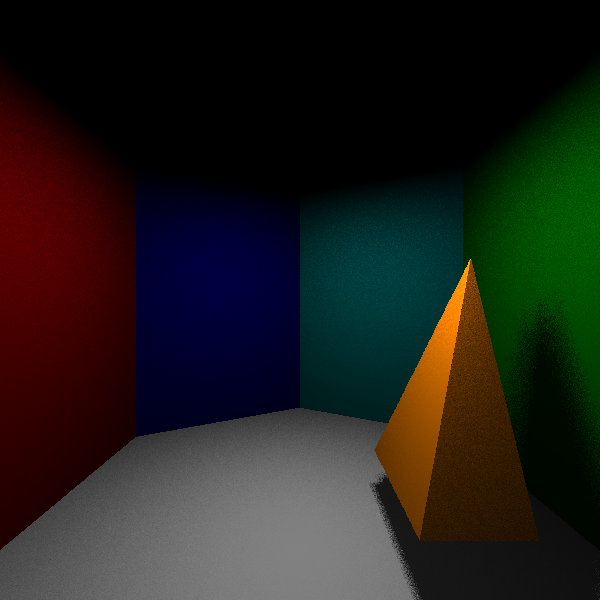
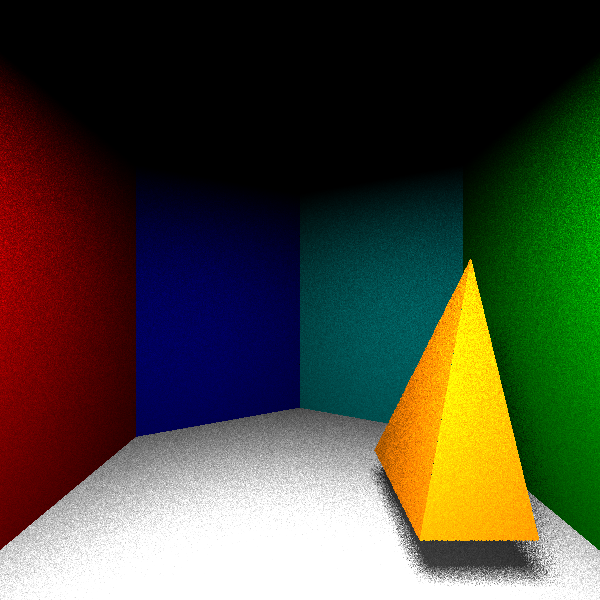
Combined PointInPolygon with Collision
Cleaned and combined the two. Very similiar.

diff --git a/source/ray.cpp b/source/ray.cpp
@@ -34,40 +34,37 @@ ColorDBL Ray::castShadowRay(const Polygon* fromPolygon, const Light& lightsource
         // Create a shadow ray from the hit point to the light source
         Ray castedShadowRay(pointOnPolygon, glm::normalize(di));
 
-        // Check for intersections with objects in the scene
-        if(lightsource.surface_->PointInPolygon(castedShadowRay) != glm::vec3(-100, -100, -100)) { //should always be true
-            
-            for(Polygon* p : allPolygons){ // Checks all polygons in the scene
+        for(Polygon* p : allPolygons){ // Checks all polygons in the scene
 
-                if( p != fromPolygon && p->collision(castedShadowRay,objectPoint)){ // if point hits something
+            if( p != fromPolygon && p->collision(castedShadowRay,objectPoint)){ // if point hits something
                     
-                    float newDistance = glm::length(objectPoint - pointOnPolygon) + EPSILON; // calculates the distance from the polygon to the intersectionpoint
+                float newDistance = glm::length(objectPoint - pointOnPolygon) + EPSILON; // calculates the distance from the polygon to the intersectionpoint
 
-                    if (newDistance < di_distance2) { // Want to keep shortest distance to compare
+                if (newDistance < di_distance2) { // Want to keep shortest distance to compare
 
-                        di_distance2 = newDistance;
-                    }
+                    di_distance2 = newDistance;
                 }
-            }           
-            
-            if (di_distance2 < di_distance) { // If di_distance2 is smaller, means that the collision is not on the lightsource, hence something is in the way
-
-                v_1 = 0.2;
             }
-                
-            // Calculate cosines of the angles between the surface normal and light direction
-            float cosThetaX = glm::dot(glm::normalize(fromPolygon->getNormal()), glm::normalize(di));
-            float cosThetaY = glm::dot(glm::normalize(lightsource.surface_->getNormal()), glm::normalize(di));
-
-            // Calculate the denominator of the Lambertian reflection formula
-            float denominator = pow(abs(di_distance), 2);
-
-            double lamb = std::max(((v_1 * lightsource.area * 3.14f * cosThetaX * (-cosThetaY)) / denominator), 0.0);
-
-            // Update shadow intensity using Lambertian reflection formula
-            shadowIntensity += ColorDBL(lamb, lamb, lamb);
+        }           
             
+        if (di_distance2 < di_distance) { // If di_distance2 is smaller, means that the collision is not on the lightsource, hence something is in the way
+
+            v_1 = 0.2;
         }
+                
+        // Calculate cosines of the angles between the surface normal and light direction
+        float cosThetaX = glm::dot(glm::normalize(fromPolygon->getNormal()), glm::normalize(di));
+        float cosThetaY = glm::dot(glm::normalize(lightsource.surface_->getNormal()), glm::normalize(di));
+
+        // Calculate the denominator of the Lambertian reflection formula
+        float denominator = pow(abs(di_distance), 2);
+
+        double lamb = std::max(((v_1 * lightsource.area * 3.14f * cosThetaX * (-cosThetaY)) / denominator), 0.0);
+
+        // Update shadow intensity using Lambertian reflection formula
+        shadowIntensity += ColorDBL(lamb, lamb, lamb);
+            
+       
     }
 
     return shadowIntensity;

diff --git a/include/polygon.h b/include/polygon.h
@@ -12,24 +12,22 @@ class Ray; // Forward declaration
 // Base class for Polygon
 class Polygon {
 public:
-    float errorMargin = 10e-2f; //error margin i guess ;)
-    
-    //Calculate the point where we intersect the plane and then if it is in the polygon and returns that point
-    virtual glm::vec3 PointInPolygon(const Ray& ray) const = 0;
+ 
     //Used to calculate if the ray intercepts the infinitaly large plane (should be used to get the point later)
     virtual bool IntersectPlane(const Ray& ray) const = 0;
+
     //Collision, bool for checking if it intersects
-    virtual bool collision(const Ray& ray, glm::vec3& refIntersection) const = 0;
+    virtual bool collision(const Ray& ray, glm::vec3& pointAtIntersection) const = 0;
 
     //returns the normal, should be used in the constructor
     virtual glm::vec3 getNormal() const = 0;
+
     //returns the color of the polygon
     ColorDBL color_;
-    
-
     ColorDBL getColor() const {
         return color_;
     };
+
 protected:
     Polygon() = default;
 };
@@ -45,14 +43,14 @@ public:
         recNormal = getNormal();
         color_ = color;
     }
-    glm::vec3 PointInPolygon(const Ray& ray) const override;
-    glm::vec3 recNormal;
+
+    bool IntersectPlane(const Ray& ray) const override; 
+    bool collision(const Ray& ray, glm::vec3& pointAtIntersection) const override;
+    glm::vec3 getNormal() const override;
     float getWidth() const;
     float getHeight() const;
-    glm::vec3 getNormal() const override;
-    bool IntersectPlane(const Ray& ray) const override;
-    bool collision(const Ray& ray, glm::vec3& refIntersection) const override;
-    
+
+    glm::vec3 recNormal;
     glm::vec3 vertices[4];
 };
 
@@ -67,14 +65,14 @@ public:
         triNormal = getNormal();
         color_ = color;
     }
-    // Implement the Intersect method for triangles
-    glm::vec3 PointInPolygon(const Ray& ray) const override;
-    glm::vec3 triNormal;
+    
     bool IntersectPlane(const Ray& ray) const override;
+    bool collision(const Ray& ray, glm::vec3& pointAtIntersection) const override;
     glm::vec3 getNormal() const override;
-    glm::vec3 vertices[3]; // Defines vertices of the triangle
     Triangle& operator=(const Triangle& other); //Copy constructor 
-    bool collision(const Ray& ray, glm::vec3& refIntersection) const override;
+    
+    glm::vec3 triNormal;
+    glm::vec3 vertices[3]; // Defines vertices of the triangle
 };
 
 
@@ -102,7 +100,7 @@ public:
         
     }
 
-    bool collision(const Ray& ray, glm::vec3& refIntersection);
+    bool collision(const Ray& ray, glm::vec3& pointAtIntersection);
     
     double radius;
     glm::vec3 sphereCenter;

diff --git a/source/main.cpp b/source/main.cpp
@@ -40,8 +40,8 @@ int main() {
     //theScene.addTetra(new Tetrahedron(glm::vec3(9, 0, 2), glm::vec3(10, 2, -4), glm::vec3(8, -1, -4), glm::vec3(8, -3, -4), ColorDBL(0.4, 0.1, 0.6)));
 
     // Adds a light to the scene
-    //Light theLight = Light(glm::vec3(-2, -2, 5), glm::vec3(-2, 2, 5), glm::vec3(2, -2, 5), glm::vec3(2, 2, 5), glm::vec3(1, 1, 1)); // Original light
-    Light theLight = Light(glm::vec3(6, -1, 5), glm::vec3(4, -1, 5), glm::vec3(6, 1, 5), glm::vec3(4, 1, 5), glm::vec3(1, 1, 1)); 
+    Light theLight = Light(glm::vec3(-2, -2, 5), glm::vec3(-2, 2, 5), glm::vec3(2, -2, 5), glm::vec3(2, 2, 5), glm::vec3(1, 1, 1)); // Original light
+    //Light theLight = Light(glm::vec3(6, -1, 5), glm::vec3(4, -1, 5), glm::vec3(6, 1, 5), glm::vec3(4, 1, 5), glm::vec3(1, 1, 1)); 
     theScene.addLight(theLight);
 
     
@@ -65,10 +65,9 @@ int main() {
             // Loop through each polygon in the scene
             for (Polygon* p : theScene.getTheRoom()) {
 
-                glm::vec3 intersectionPoint = p->PointInPolygon(rayFromPixel);
-
-                // If the ray intersects the polygon
-                if (intersectionPoint != glm::vec3(-100, -100, -100)) {
+                glm::vec3 intersectionPoint;
+                
+                if (p->collision(rayFromPixel,intersectionPoint)) {
 
                     // Initializes the end vertex
                     rayFromPixel.endVertex = intersectionPoint;
@@ -85,6 +84,10 @@ int main() {
                         closestColor = p->color_.mult(obtainedLight);                        
                     }
                 }
+            }
+
+            for (Sphere* s : theScene.getSpheres()) {
+
             }
 
             // Assign the color of the closest intersection

diff --git a/include/scene.h b/include/scene.h
@@ -29,8 +29,11 @@ public:
     // Get the list of cameras in the scene
     const std::vector<Camera>& getCameras() const;
     
-    //Get a room baby
+    // Get a room baby
     std::vector<Polygon*> getTheRoom() const;
+
+    // Get a room baby
+    std::vector<Sphere*> getSpheres() const;
     
     //Add tetrahedra
     void addTetra(Tetrahedron* tetra); 
@@ -42,4 +45,5 @@ private:
     std::vector<Light> lights;   // List of lights in the scene
     std::vector<Camera> cameras; // List of cameras in the scene
     std::vector<Polygon*> theRoom;
+    std::vector<Sphere*> spheres;
 };

diff --git a/source/scene.cpp b/source/scene.cpp
@@ -72,7 +72,7 @@ void Scene::addTetra(Tetrahedron* tetra){
 }
 
 void Scene::addSphere(Sphere* sphere) {
-    // Will be implemented
+    spheres.push_back(sphere);
 }
 
 const std::vector<Light>& Scene::getLights() const {
@@ -85,6 +85,10 @@ const std::vector<Camera>& Scene::getCameras() const {
 
 std::vector<Polygon*> Scene::getTheRoom() const {
     return theRoom;
+}
+
+std::vector<Sphere*> Scene::getSpheres() const {
+    return spheres;
 }
 
 
